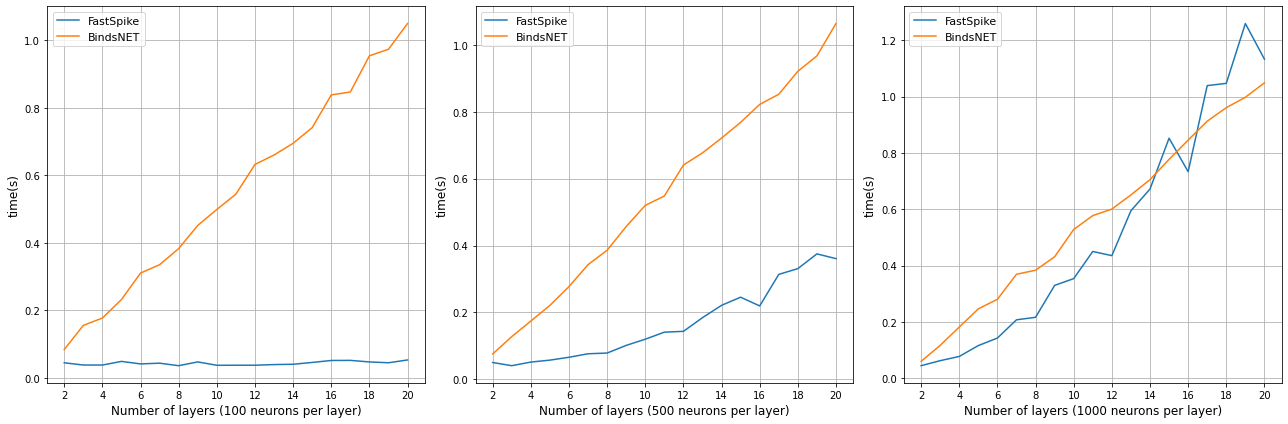
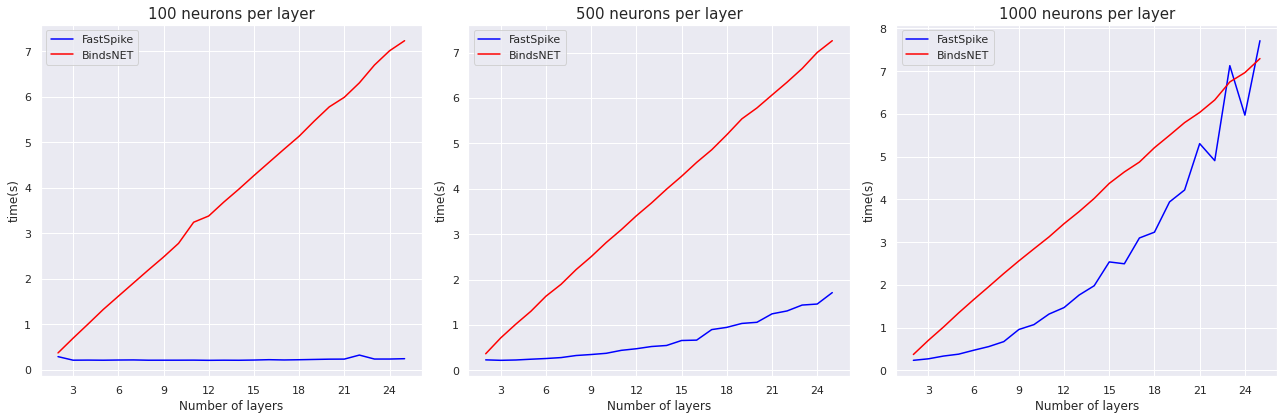
update benchmark

diff --git a/README.md b/README.md
@@ -1,16 +1,21 @@
 # FastSpike
+
 A Spiking Neural Network (SNN) framework for fast simulation based on PyTorch
 
 FastSpike is designed to exploit the GPU memory in order to increase the speed of simulation as much as possible. Right now, FastSpike only supports homogeneous networks (same characteristics for all neurons in a network). For CPU computing, heterogeneous networks, and a more memory-friendly framework, use [BindsNET](https://github.com/BindsNET/bindsnet).
 The amount of speed-up achieved by FastSpike depends on the GPU capacity. Hence, it is important to use suitable hardware for your problem.
 
-#Benchmarking
-Here is a benchmark of FastSpike against BindsNET. The benchmark is done on a Tesla K80 (which is not a very fast GPU!) on Google Colab. It shows that generally, FastSpikes performs better when the number of network layers is high in relation to the total number of neurons. The relative performance of these two packages is dependent on the GPU capacity and more speed-up for FastSpike is expected on the better processor. The benchmark code is available on: [Colab Notebook](https://colab.research.google.com/drive/11SKxlbLxc6ZzXXDJkYf59Wu9ckvFZh6K?usp=sharing)
+# Benchmarking
+Here is a benchmark of FastSpike against BindsNET. The benchmark is done on a Tesla P100 on Google Colab. In general, FastSpikes perform better when the number of network layers is high compared to the number of neurons. It is expected that FastSpike will achieve further speed-ups on more powerful processors, depending on GPU capacity. The benchmark code is available on: [Colab Notebook](https://colab.research.google.com/drive/11SKxlbLxc6ZzXXDJkYf59Wu9ckvFZh6K?usp=sharing)
 
 ## Fixed size, Different number of layers
+
 ![](docs/layerwise_gpu.png)
+
 ## Fixed number of layers, Different layer sizes
+
 ![](docs/sizewise_gpu.png)
 
 # Julia
+
 Also see [FastSpike.jl](https://github.com/mahbodnr/FastSpike.jl) for Julia implementation.
